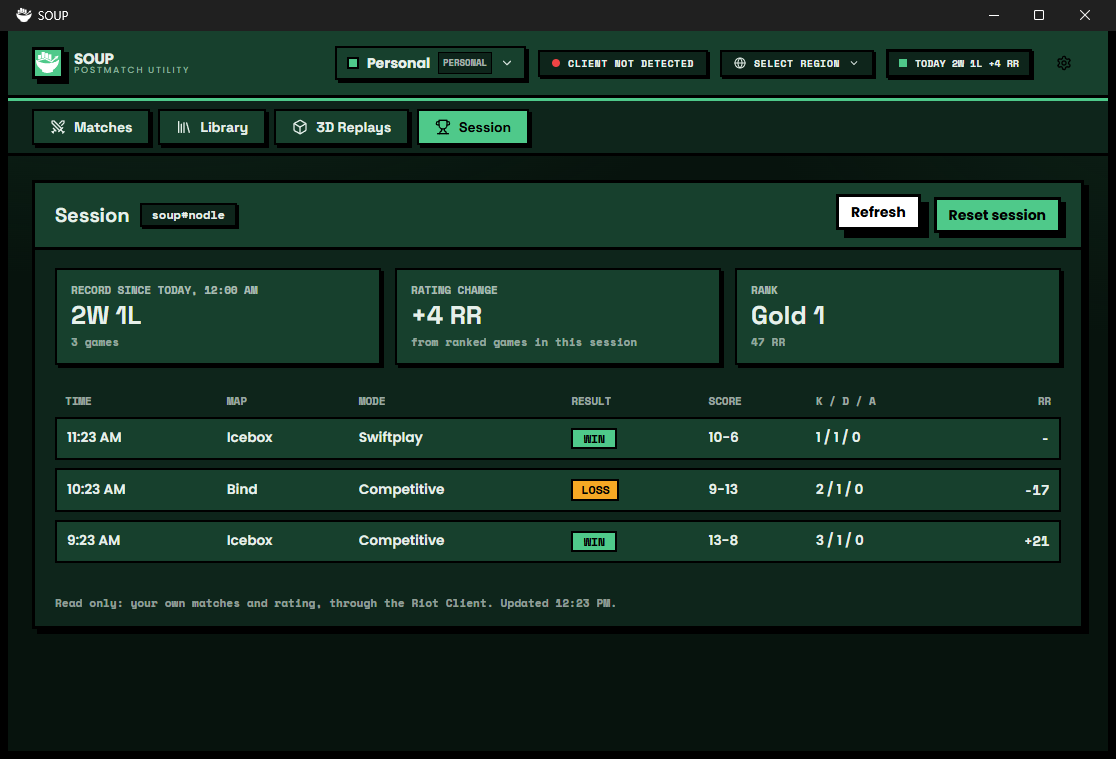
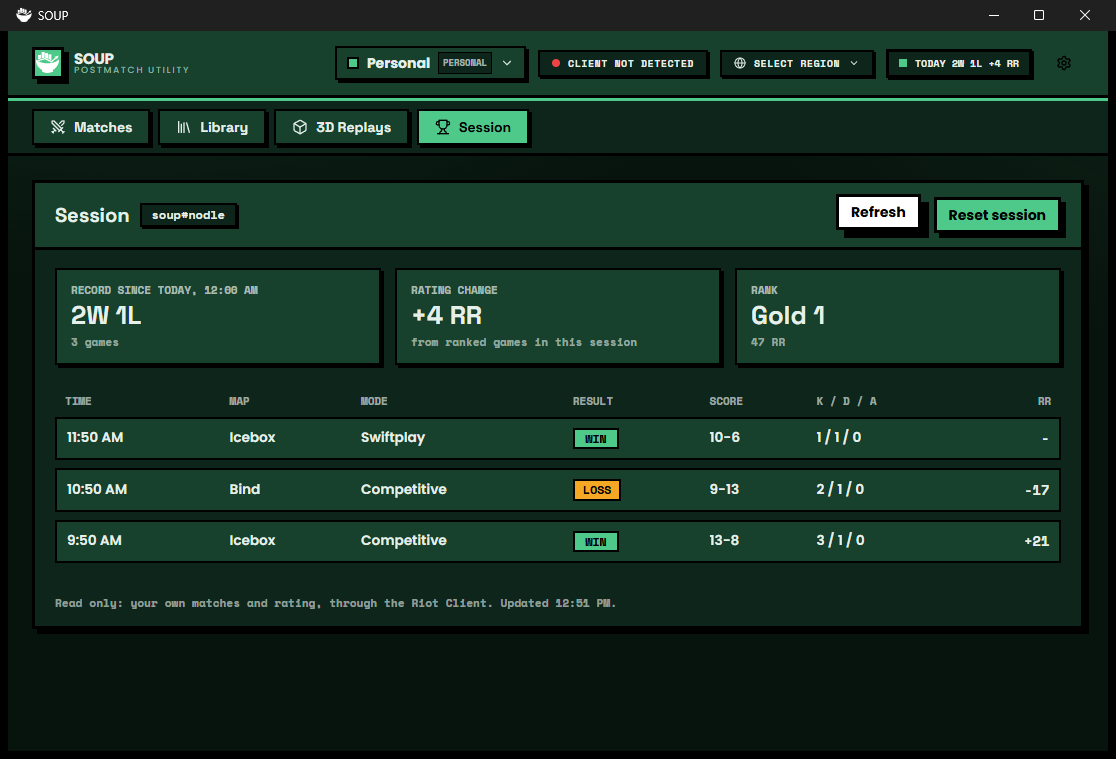
Examples: scrim-notes tells other extensions when notes change; guides use the real examples
scrim-notes emits scrim-notes/changed ({ matchId, count }) and heatmap redraws its Notes
buttons from it, so the count follows a new note at once. Guides 3, 7 and 13 use scrim-notes
and heatmap in their snippets instead of the removed team-roster. Unused imports removed,
README images re-shot from the final self-test run, CI comment mentions the logic tests.

diff --git a/examples/scrim-notes/src/store.ts b/examples/scrim-notes/src/store.ts
@@ -19,6 +19,8 @@ export class NotesStore {
   private saving: Promise<void> = Promise.resolve();
   /** The match the Notes tab should show when it opens (set by the dialog's "Open in the Notes tab" and by other extensions). */
   focusKey: string | null = null;
+  /** Called with the key of the match whose notes changed, or null when all notes were deleted (the extension tells other extensions with it). */
+  onChange: ((key: string | null) => void) | null = null;
 
   constructor(private plugin: Plugin) {}
 
@@ -46,6 +48,7 @@ export class NotesStore {
     const existing = this.data.notes[key];
     const next: MatchNotes = existing ? { ...existing, entries: [...existing.entries, note] } : { ...meta, entries: [note] };
     this.commit({ ...this.data, notes: { ...this.data.notes, [key]: next } });
+    this.onChange?.(key);
     return note;
   }
 
@@ -64,6 +67,7 @@ export class NotesStore {
           },
     );
     this.commit({ ...this.data, notes: { ...this.data.notes, [key]: { ...m, entries } } });
+    this.onChange?.(key);
   }
 
   remove(key: string, id: string): void {
@@ -74,10 +78,12 @@ export class NotesStore {
     if (entries.length === 0) delete notes[key];
     else notes[key] = { ...m, entries };
     this.commit({ ...this.data, notes });
+    this.onChange?.(key);
   }
 
   removeAll(): void {
     this.commit({ ...this.data, notes: {} });
+    this.onChange?.(null);
   }
 
   setSettings(patch: Partial<Settings>): void {

diff --git a/examples/scrim-notes/src/main.tsx b/examples/scrim-notes/src/main.tsx
@@ -26,6 +26,12 @@ export interface ScrimNotesApi {
   exportMarkdown(path: string, keys?: string[]): Promise<number>;
 }
 
+/** The payload of the `scrim-notes/changed` event: the match whose notes changed (null: all notes were deleted) and how many it has now. */
+export interface ScrimNotesChanged {
+  matchId: string | null;
+  count: number;
+}
+
 export default class ScrimNotes extends Plugin {
   store = new NotesStore(this);
   private badge?: { refresh(): void };
@@ -69,6 +75,8 @@ export default class ScrimNotes extends Plugin {
     });
     // The badge reads our data, so it asks the tiles to draw again whenever the data changes.
     this.registerEvent({ off: this.store.subscribe(() => this.badge?.refresh()) });
+    // And other extensions hear about it: an event named after this extension (`<id>/<name>`) that carries the match and its new count.
+    this.store.onChange = (key) => this.app.events.emit("scrim-notes/changed", { matchId: key, count: key ? this.store.count(key) : 0 } satisfies ScrimNotesChanged);
 
     // The Matches tab: an "Add note" button on every row of the match history.
     this.addMatchRowAction({

diff --git a/examples/scrim-notes/src/ui.tsx b/examples/scrim-notes/src/ui.tsx
@@ -5,7 +5,7 @@
 import { useEffect, useMemo, useRef, useState, useSyncExternalStore } from "react";
 import { createRoot, type Root } from "react-dom/client";
 import { Modal, Notice, type Plugin } from "soup";
-import { TAGS, formatDate, formatDateTime, lastEdit, mapName, noteMatches, searchMatches, tagLabel, toMarkdown, type MatchNotes, type Note, type Tag } from "./model";
+import { TAGS, formatDate, formatDateTime, lastEdit, mapName, noteMatches, searchMatches, tagLabel, type MatchNotes, type Note, type Tag } from "./model";
 import type { MatchMeta, NotesStore } from "./store";
 
 export interface Ctx {
@@ -419,4 +419,3 @@ export function NotesTab({ active }: { active?: boolean }) {
   );
 }
 
-export { toMarkdown };

diff --git a/examples/heatmap/src/main.tsx b/examples/heatmap/src/main.tsx
@@ -38,6 +38,9 @@ export default class Heatmap extends Plugin {
       },
     });
 
+    // Scrim Notes tells us when a match's notes change, so the Notes buttons in the list are always current. (If it is not installed the event never comes.)
+    this.registerEvent(this.app.events.on("scrim-notes/changed", () => this.ctrl.touch()));
+
     this.addCommand({ id: "refresh", name: "Heatmap: read matches again", callback: () => void this.ctrl.reload() });
 
     // The Library changes in bursts (an import adds several replays): read once, a moment after the last change.

diff --git a/examples/heatmap/src/controller.ts b/examples/heatmap/src/controller.ts
@@ -98,6 +98,11 @@ export class Controller {
     this.setView({ replayId: r.id, mapUrl: r.mapUrl, who: "all", source: "library" });
   }
 
+  /** Draw the tab again without reading anything (what it shows from another extension, the note counts, changed). */
+  touch(): void {
+    this.set({});
+  }
+
   /** Read again if it has been a while (the tab was opened). */
   refreshIfStale(): void {
     if (Date.now() - this.lastRun > 60_000) void this.reload();

diff --git a/examples/session-tracker/src/main.tsx b/examples/session-tracker/src/main.tsx
@@ -13,7 +13,7 @@
 import { Plugin, debounce } from "soup";
 import { riotSource, type DataSource } from "./source";
 import { SessionStore } from "./store";
-import { HeaderChip, SessionTab, TAB, headline, setCtx } from "./ui";
+import { HeaderChip, SessionTab, headline, setCtx } from "./ui";
 import "./styles.css";
 
 export default class SessionTracker extends Plugin {

diff --git a/docs/13-working-with-other-extensions.md b/docs/13-working-with-other-extensions.md
@@ -9,31 +9,37 @@ Give your `Plugin` a property named `api` and document it. This is the whole off
 ```ts
 import { Plugin } from "soup";
 
-export interface RosterApi {
-  list(): string[];
-  add(name: string): Promise<void>;
+export interface NotesApi {
+  notesFor(matchId: string): string[];
+  add(matchId: string, text: string): Promise<void>;
 }
 
-export default class TeamRoster extends Plugin {
-  private names: string[] = [];
+/** The payload of the `scrim-notes/changed` event. */
+export interface NotesChanged {
+  matchId: string;
+  count: number;
+}
 
-  api: RosterApi = {
-    list: () => [...this.names],
-    add: async (name) => {
-      this.names.push(name);
-      await this.saveData({ names: this.names });
+export default class ScrimNotes extends Plugin {
+  private notes: Record<string, string[]> = {};
+
+  api: NotesApi = {
+    notesFor: (matchId) => [...(this.notes[matchId] ?? [])],
+    add: async (matchId, text) => {
+      (this.notes[matchId] ??= []).push(text);
+      await this.saveData({ notes: this.notes });
       // Tell listeners. The event name must start with this extension's id and a slash.
-      this.app.events.emit("team-roster/changed", this.api.list());
+      this.app.events.emit("scrim-notes/changed", { matchId, count: this.notes[matchId].length } satisfies NotesChanged);
     },
   };
 
   async onload() {
-    this.names = (await this.loadData<{ names?: string[] }>()).names ?? [];
+    this.notes = (await this.loadData<{ notes?: Record<string, string[]> }>()).notes ?? {};
   }
 }
 ```
 
-Treat `api` like any public API: add to it, do not change what exists in a way that breaks callers, and bump your version (`^1.0` ranges in other manifests will keep matching minor versions).
+Treat `api` like any public API: add to it, do not change what exists in a way that breaks callers, and bump your version (`^1.0` ranges in other manifests will keep matching minor versions). The real [`scrim-notes`](../examples/scrim-notes/src/main.tsx) does this with notes that have rounds and tags.
 
 ## The consumer
 
@@ -41,34 +47,36 @@ Treat `api` like any public API: add to it, do not change what exists in a way t
 import { Plugin } from "soup";
 
 // The provider's documented interface, copied into this project.
-interface RosterApi {
-  list(): string[];
+interface NotesApi {
+  notesFor(matchId: string): string[];
 }
 
-export default class RosterConsumer extends Plugin {
+export default class Heatmap extends Plugin {
   async onload() {
-    const roster = (this.app.extensions.get("team-roster") as unknown as { api: RosterApi } | undefined)?.api;
-    if (!roster) throw new Error("team-roster is not loaded");
-    this.app.log.info(`${roster.list().length} on the roster`);
-    this.registerEvent(this.app.events.on("team-roster/changed", (names: string[]) => this.app.log.info(names.join(", "))));
+    const notes = (this.app.extensions.get("scrim-notes") as unknown as { api: NotesApi } | undefined)?.api;
+    if (!notes) {
+      this.app.log.info("scrim-notes is not installed: no links to notes"); // an optional dependency: carry on without it
+      return;
+    }
+    this.app.log.info(`${notes.notesFor("some-match-id").length} notes on that match`);
+    this.registerEvent(this.app.events.on("scrim-notes/changed", (e: { matchId: string; count: number }) => this.app.log.info(`${e.matchId} has ${e.count} notes`)));
   }
 }
 ```
 
-(Copy the provider's interface into your own project, as above, or publish it as a small types file next to the provider's releases. There is no shared package.)
-
+(Copy the provider's interface into your own project, as above, or publish it as a small types file next to the provider's releases. There is no shared package.) A consumer that cannot work without the provider throws instead of returning, and lists it under `dependencies` (next section).
 ## Declare the dependency
 
 In the consumer's manifest:
 
 ```json
 {
-  "dependencies": { "team-roster": "^1.0" },
+  "dependencies": { "scrim-notes": "^1.0" },
   "optionalDependencies": { "other-thing": "^2.0" }
 }
 ```
 
-- `dependencies`: the provider must be installed, on, and in that version range. SOUP loads it **first** and waits for its `onload` to finish, and does not load your extension without it (the row says "needs team-roster" or why). If the provider is turned off, your extension is unloaded and shown as blocked, with the reason on its row.
+- `dependencies`: the provider must be installed, on, and in that version range. SOUP loads it **first** and waits for its `onload` to finish, and does not load your extension without it (the row says "needs scrim-notes" or why). If the provider is turned off, your extension is unloaded and shown as blocked, with the reason on its row.
 - `optionalDependencies`: if the extension is there it loads first, and `app.extensions.get` finds it; if not, yours loads anyway. Always check for `undefined`.
 - Two extensions that depend on each other, directly or through others, are a cycle: both are marked Error.
 - When the provider is updated or reloaded, extensions that depend on it are reloaded too, so the instance you hold is always the live one.

diff --git a/examples/heatmap/README.md b/examples/heatmap/README.md
@@ -9,7 +9,7 @@ Kill and death heatmaps on the real minimap, from the match files in your Librar
 - **Heatmap tab.** Pick a map (only maps you have data for are listed), a source (Library, recent matches, or both), a player (you, a teammate, or everyone), what to show (kills, deaths, or both) and the side (attack, defense, or any). A soft glow shows where it piles up, and a dot marks each event: a circle for a kill (where the killer stood), a diamond for a death (where the player fell). Hover a dot for who killed whom, the round, the weapon and the match.
 - **Counts.** The line at the top says how many matches, kills and deaths are on the map; the Matches list on the right shows each match's dots, and **Only** narrows the map to one match.
 - **Library: Heatmap button.** On every replay that has a match file: opens the tab filtered to that replay.
-- **Works with Scrim Notes.** If [`scrim-notes`](../scrim-notes) is installed and on, a match that has notes gets a **Notes N** button that opens them there. Without it, nothing changes. This is the example for [guide 13](../../docs/13-working-with-other-extensions.md): an `optionalDependencies` entry, `app.extensions.get("scrim-notes")` and its documented `api`.
+- **Works with Scrim Notes.** If [`scrim-notes`](../scrim-notes) is installed and on, a match that has notes gets a **Notes N** button that opens them there, and the count follows when a note is added (the `scrim-notes/changed` event). Without it, nothing changes. This is the example for [guide 13](../../docs/13-working-with-other-extensions.md): an `optionalDependencies` entry, `app.extensions.get("scrim-notes")` and its documented `api`.
 - **Smooth with 50 matches.** The glow is drawn once per change on a small canvas and stretched, the dots on top. SOUP's self-test loads 47 more matches and changes the filters eight times with no task longer than a quarter of a second.
 
 "You" is the account the Riot Client is signed in to; without the Riot Client you pick yourself by name in the player list.

diff --git a/docs/03-manifest.md b/docs/03-manifest.md
@@ -4,17 +4,17 @@
 
 ```json
 {
-  "id": "scrim-notes",
-  "name": "Scrim Notes",
+  "id": "heatmap",
+  "name": "Heatmap",
   "version": "1.2.0",
   "minAppVersion": "2.3.0",
   "apiVersion": "^1.0",
-  "description": "Notes on every scrim.",
+  "description": "Kill heatmaps on the real minimap.",
   "author": "Your name",
   "authorUrl": "https://example.com",
   "fundingUrl": "https://example.com/sponsor",
-  "repo": "your-github-name/scrim-notes",
-  "dependencies": { "team-roster": "^1.0" },
+  "repo": "your-github-name/heatmap",
+  "dependencies": { "scrim-notes": "^1.0" },
   "optionalDependencies": {},
   "requiresModules": ["library"],
   "uses": ["filesystem"]
@@ -52,7 +52,7 @@ For example:
 ```
 id: "My Extension" must be 1 to 40 lowercase letters, digits and dashes (no leading or trailing dash)
 apiVersion: "latest" is not a version range like ^1.0
-dependencies.team-roster: not a version range (use for example "^1.0")
+dependencies.scrim-notes: not a version range (use for example "^1.0")
 ```
 
 SOUP refuses to install it, and nothing is left behind.

diff --git a/examples/scrim-notes/README.md b/examples/scrim-notes/README.md
@@ -12,7 +12,7 @@ Write notes on any match: per round, tagged, searchable, and exported to Markdow
 - **Command.** `Scrim Notes: new note for the last match` (`Ctrl+Alt+N`, or `Ctrl+K` and type it): the newest match from your history, or the newest replay in your Library when the Riot Client is not running.
 - **Export to Markdown.** One match or all of them, to a file you choose.
 - **Settings.** The tag a new note starts with, whether to show the badge, and **Delete all notes in this profile**.
-- **For other extensions.** `app.extensions.get("scrim-notes")?.api` offers `notesFor(matchId)`, `open(matchId)` and `exportMarkdown(path)`. The [heatmap](../heatmap) example uses it.
+- **For other extensions.** `app.extensions.get("scrim-notes")?.api` offers `notesFor(matchId)`, `open(matchId)` and `exportMarkdown(path)`, and the event `scrim-notes/changed` (`{ matchId, count }`) tells other extensions when a match's notes change. The [heatmap](../heatmap) example uses both.
 
 ## What it accesses
 

diff --git a/docs/07-events.md b/docs/07-events.md
@@ -57,10 +57,10 @@ An extension can announce things to other extensions. The event name must start 
 
 ```ts snippet
 // In the provider:
-app.events.emit("team-roster/changed", ["Ada", "Grace"]);
+app.events.emit("scrim-notes/changed", { matchId: "3f2a9c1e", count: 2 });
 
 // In a consumer:
-const ref = app.events.on("team-roster/changed", (names: string[]) => app.log.debug(names.join(", ")));
+const ref = app.events.on("scrim-notes/changed", (e: { matchId: string; count: number }) => app.log.debug(`${e.matchId}: ${e.count} notes`));
 plugin.registerEvent(ref);
 ```
 
